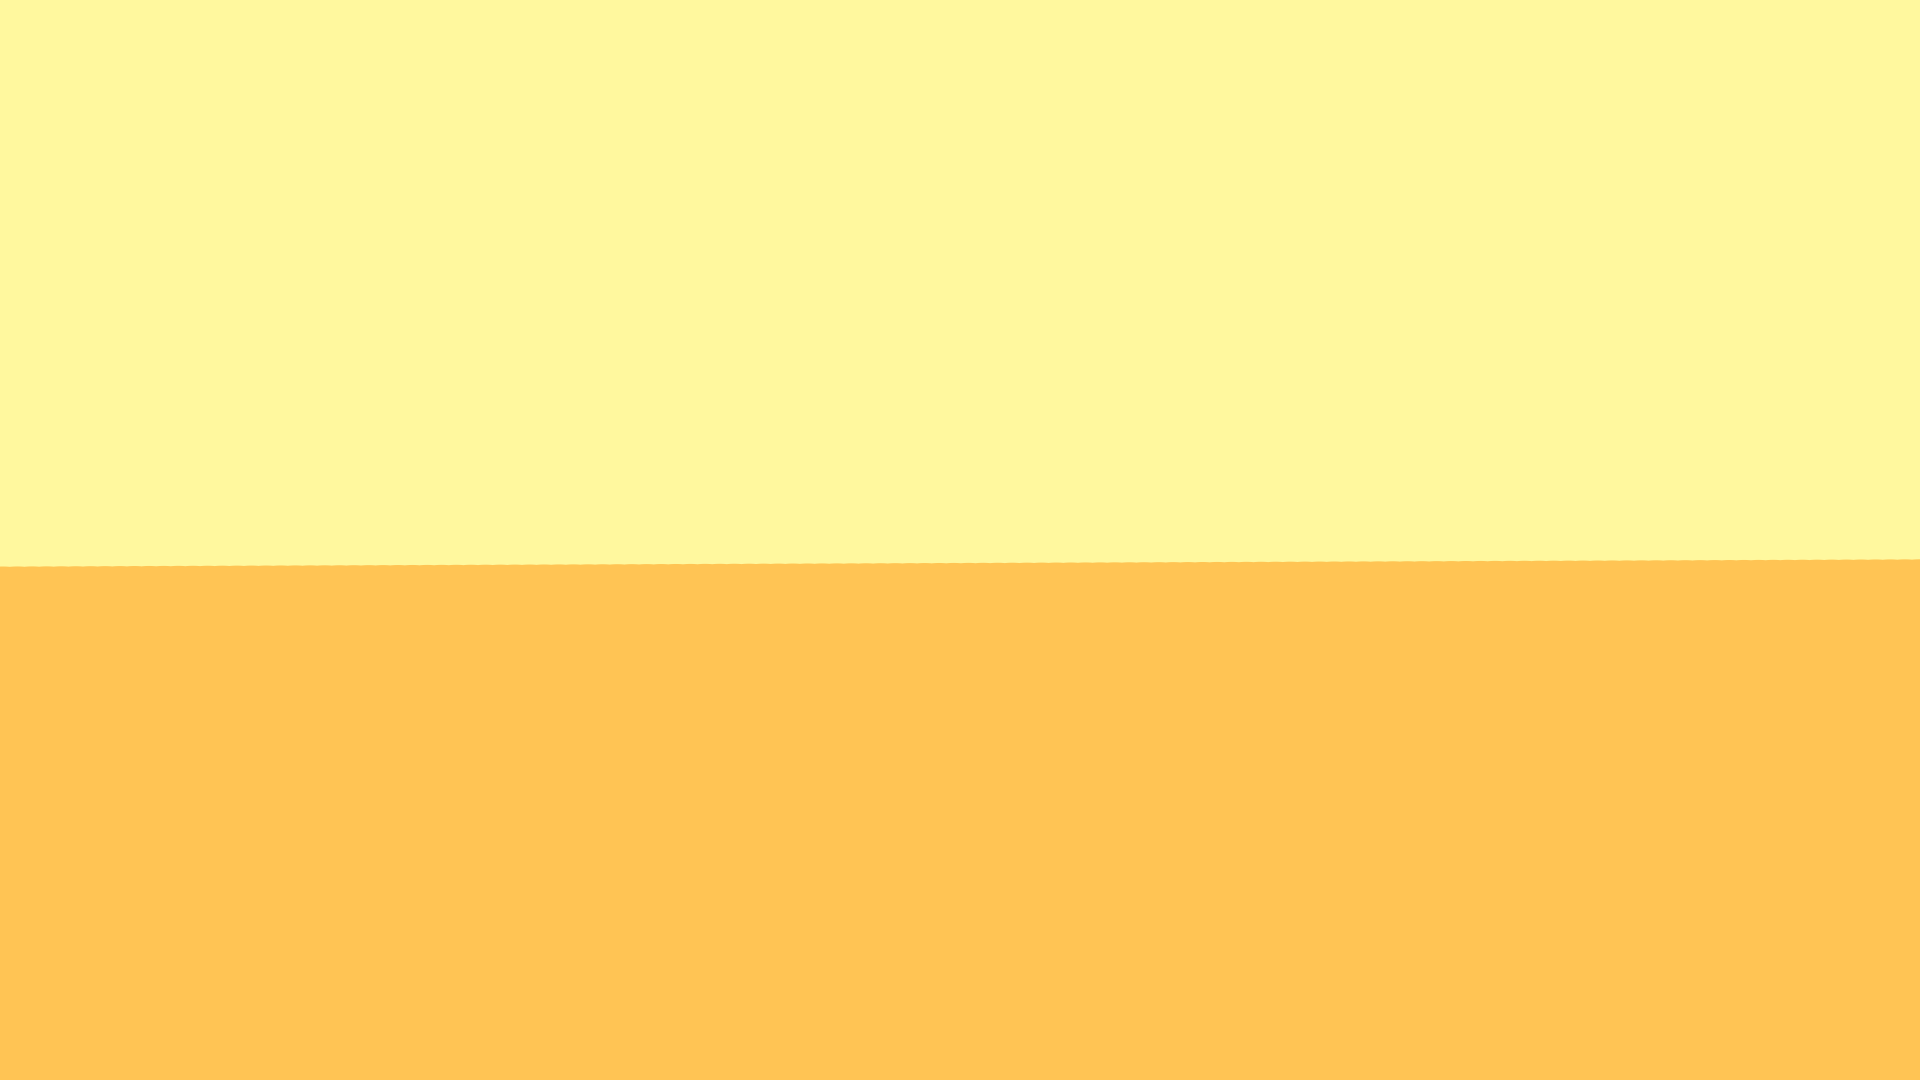
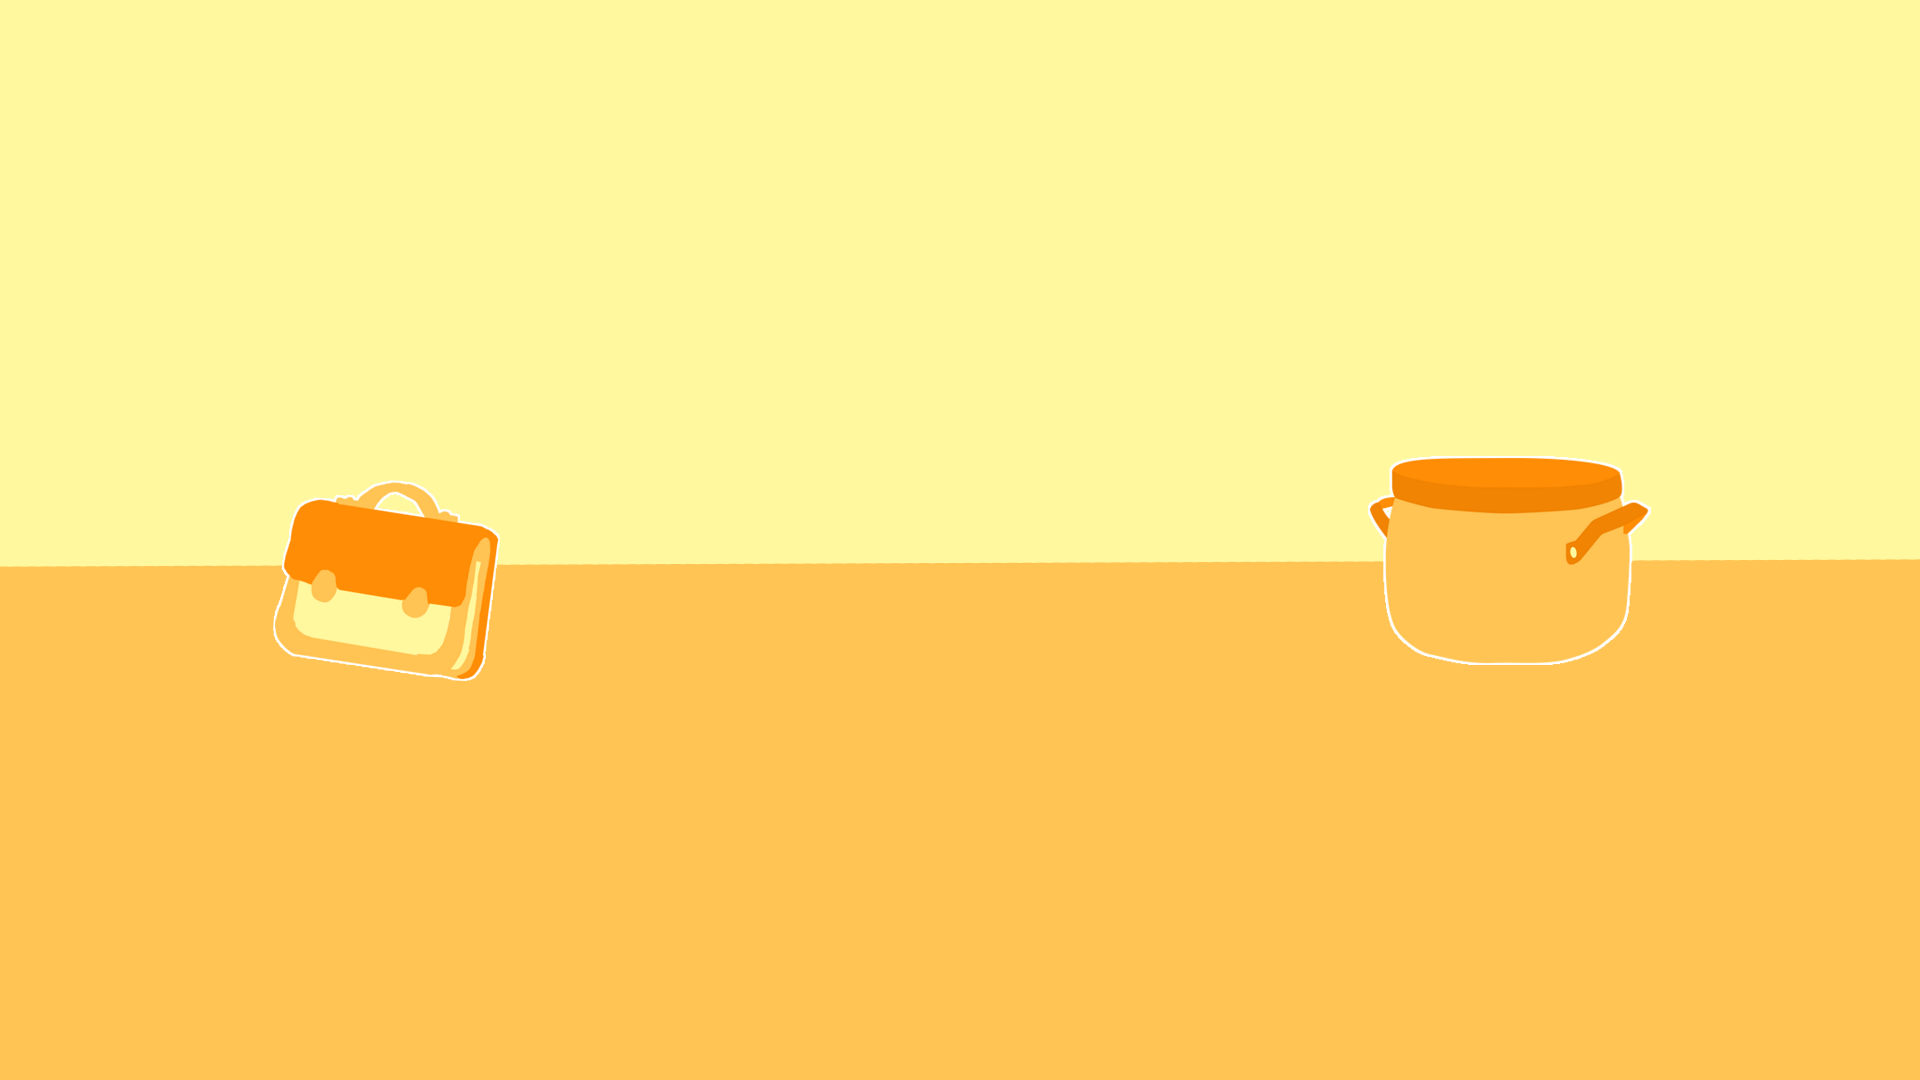
Background behind levels

diff --git a/src/LevelSelection.svelte b/src/LevelSelection.svelte
@@ -2,6 +2,7 @@
   import { flowScene, levelsComplete } from "./stores";
   import { saveProgression } from "./save";
   import levelsData from "./data/levels_data.js";
+  import { getImageDataFromName } from "./core/getImageDataFromName"
 
   let levels = Object.keys(levelsData);
 
@@ -18,8 +19,9 @@
   <div class="levels">
     {#each levels as level, i}
         {#if i === 0 || (localLevelsComplete && localLevelsComplete[levels[i - 1]])}
-        <div class="level">
-            <img src="" alt="" />
+        <div class="level paper border"
+        style = 'background-image : url("img/{getImageDataFromName(level).src}.png")'
+        >
             <button on:click={$flowScene.transitionToGame(level)}
             >{level}</button
             >
@@ -28,3 +30,25 @@
     {/each}
   </div>
 </div>
+
+<style>
+  .levels {
+    display: flex;
+    flex-direction: column;
+    height: auto;
+    height: 100%;
+  }
+
+  .level {
+    padding: 10px;
+    height: 15%;
+    background-position: center;
+    background-attachment: cover;
+    margin-top: auto;
+    margin-bottom: auto;
+  }
+
+  .main {
+    height: 80%;
+  }
+</style>

diff --git a/src/scenes.js b/src/scenes.js
@@ -32,6 +32,7 @@ export class Home extends FlowScene {
     super('home')
   }
   transitionToLevelSelection () {
+    document.body.style.backgroundImage = 'url(img/fond.png)';
     flowScene.set(new LevelSelection())
   }
   transitionToSettings () {
@@ -52,6 +53,7 @@ export class About extends FlowScene {
     super('about')
   }
   transitionToLevelSelection () {
+    document.body.style.backgroundImage = 'url(img/fond.png)';
     return
   }
   transitionToSettings () {
@@ -75,6 +77,7 @@ export class LevelSelection extends FlowScene {
     document.body.style.backgroundImage = 'url(img/fond.png)';
   }
   transitionToLevelSelection () {
+    document.body.style.backgroundImage = 'url(img/fond.png)';
     return
   }
   transitionToGame (level) {
@@ -129,6 +132,7 @@ export class GameFlow extends FlowScene {
       get(level).end()
       saveProgression()
     }
+    document.body.style.backgroundImage = 'url(img/fond.png)';
     flowScene.set(new LevelSelection())
   }
 }

diff --git a/src/stores.js b/src/stores.js
@@ -7,9 +7,12 @@ export const level = writable()
 export const introText = writable(`
 <p> Bienvenue dans la cour des grands ! </p>
 <p>
-    Dans ce jeu de craft, combine les objets pour en débloquer de nouveaux et résoudre tes problèmes de manière ingénieuse et parfois inattendue.
+    Dans ce jeu dans le style d’un “Little Alchemy”, combine les objets dans la marmite pour en débloquer de nouveaux et résoudre tes problèmes de manière ingénieuse et parfois inattendue !
 </p>
 <p>
-    Laisse libre cours à ton imagination, il y a plusieurs solutions pour chaque niveau !
+    Laisse libre cours à ton imagination !  Chaque niveau comporte 3 fins : une simple, une complexe et une mauvaise fin.
+</p>
+<p>
+    Sauras-tu toutes les débloquer ?
 </p>
 `)

diff --git a/src/About.svelte b/src/About.svelte
@@ -7,9 +7,9 @@
   { name : 'Clémence', website : 'https://www.instagram.com/poulpillow/' },
   { name : 'Lilou', website : 'https://www.instagram.com/miss_bidule/' },
   { name : 'Amalia', website : '#' },
-  { name : 'Enguerrand', website : '#' },
-  { name : 'Emma', website : '#' },
-  { name : 'Aurore', website : '#' }
+  { name : 'Enguerrand', website : 'https://www.instagram.com/enguerrand_desmet/' },
+  { name : 'Emma', website : 'https://emmapernin.fr/' },
+  { name : 'Aurore', website : 'https://www.instagram.com/_just_kiel_/' }
     ];
     console.log(about)
   shuffleArray(about)

diff --git a/src/Home.svelte b/src/Home.svelte
@@ -11,7 +11,11 @@
 
     <br/>
   <div>
-    <button on:click={$flowScene.transitionToAchievements()}>Succès</button>
-    <button on:click={$flowScene.transitionToSettings()}>Paramètres</button>
+    <div class="footer">
+      <button on:click={$flowScene.transitionToAchievements()}>Succès</button>
+      <img class="logo" src="../img/logo_pkc.png"
+      alt="logo_team"/>
+      <button on:click={$flowScene.transitionToSettings()}>Paramètres</button>
+    </div>
   </div>
 </div>

diff --git a/public/global.css b/public/global.css
@@ -10,7 +10,7 @@ body {
 	margin: 0;
 	padding: 8px;
 	box-sizing: border-box;
-
+	height : 100%;
 	background-image: url(img/fond.png);
 }
 
@@ -74,4 +74,20 @@ ul li a {
 
 ul li a:hover {
 	color: #fe8b01;
+}
+
+.logo {
+	margin: auto;
+	margin-bottom: 20px;
+	border: none;
+	height: 150px;
+}
+
+.footer {
+	display: flex;
+	flex-direction: row;
+}
+
+main {
+	height : 100%;
 }

diff --git a/src/Merge.svelte b/src/Merge.svelte
@@ -143,11 +143,14 @@
     top:0px;
   }
    #MixingBowl {
-    height: 140px;
+    height: 400px;
+    width: 540px
   }
 
   .dropzone {
-    background-color: #fe8b01;
+    background-image: url("../img/marmite.png");
+    background-size: contain;
+    background-repeat: no-repeat;
     border: dashed 4px transparent;
     border-radius: 4px;
     margin: 10px auto 30px;
